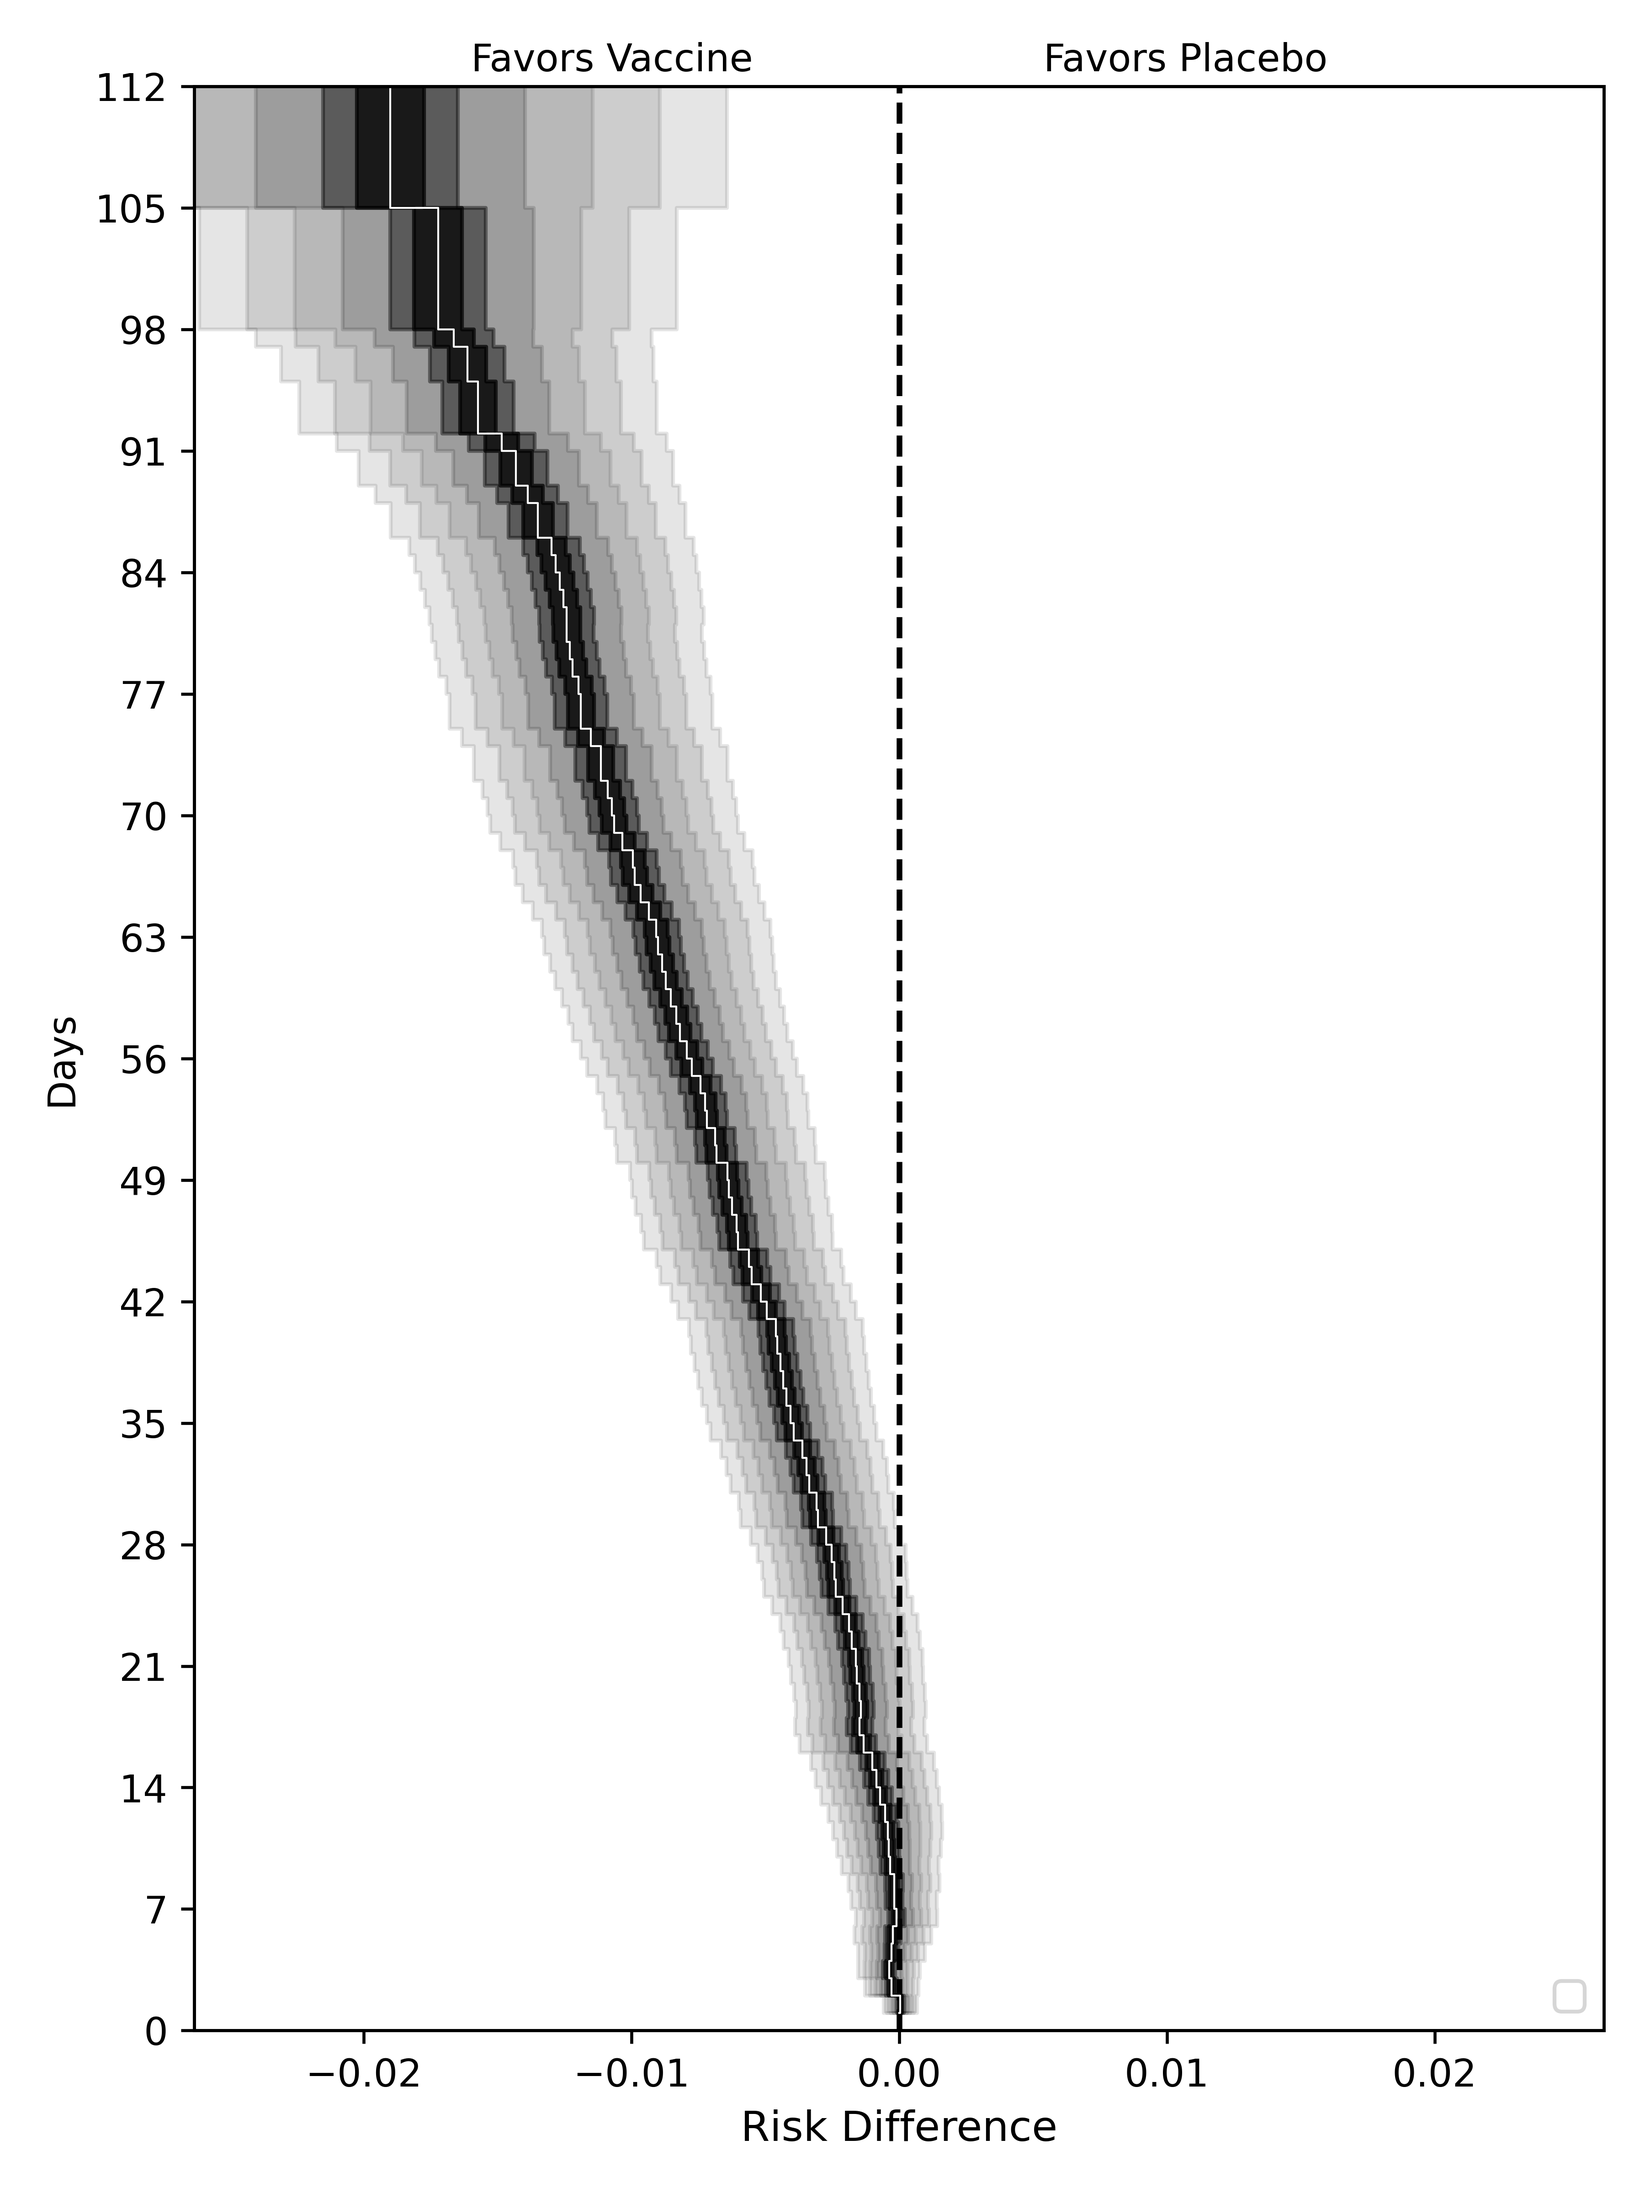
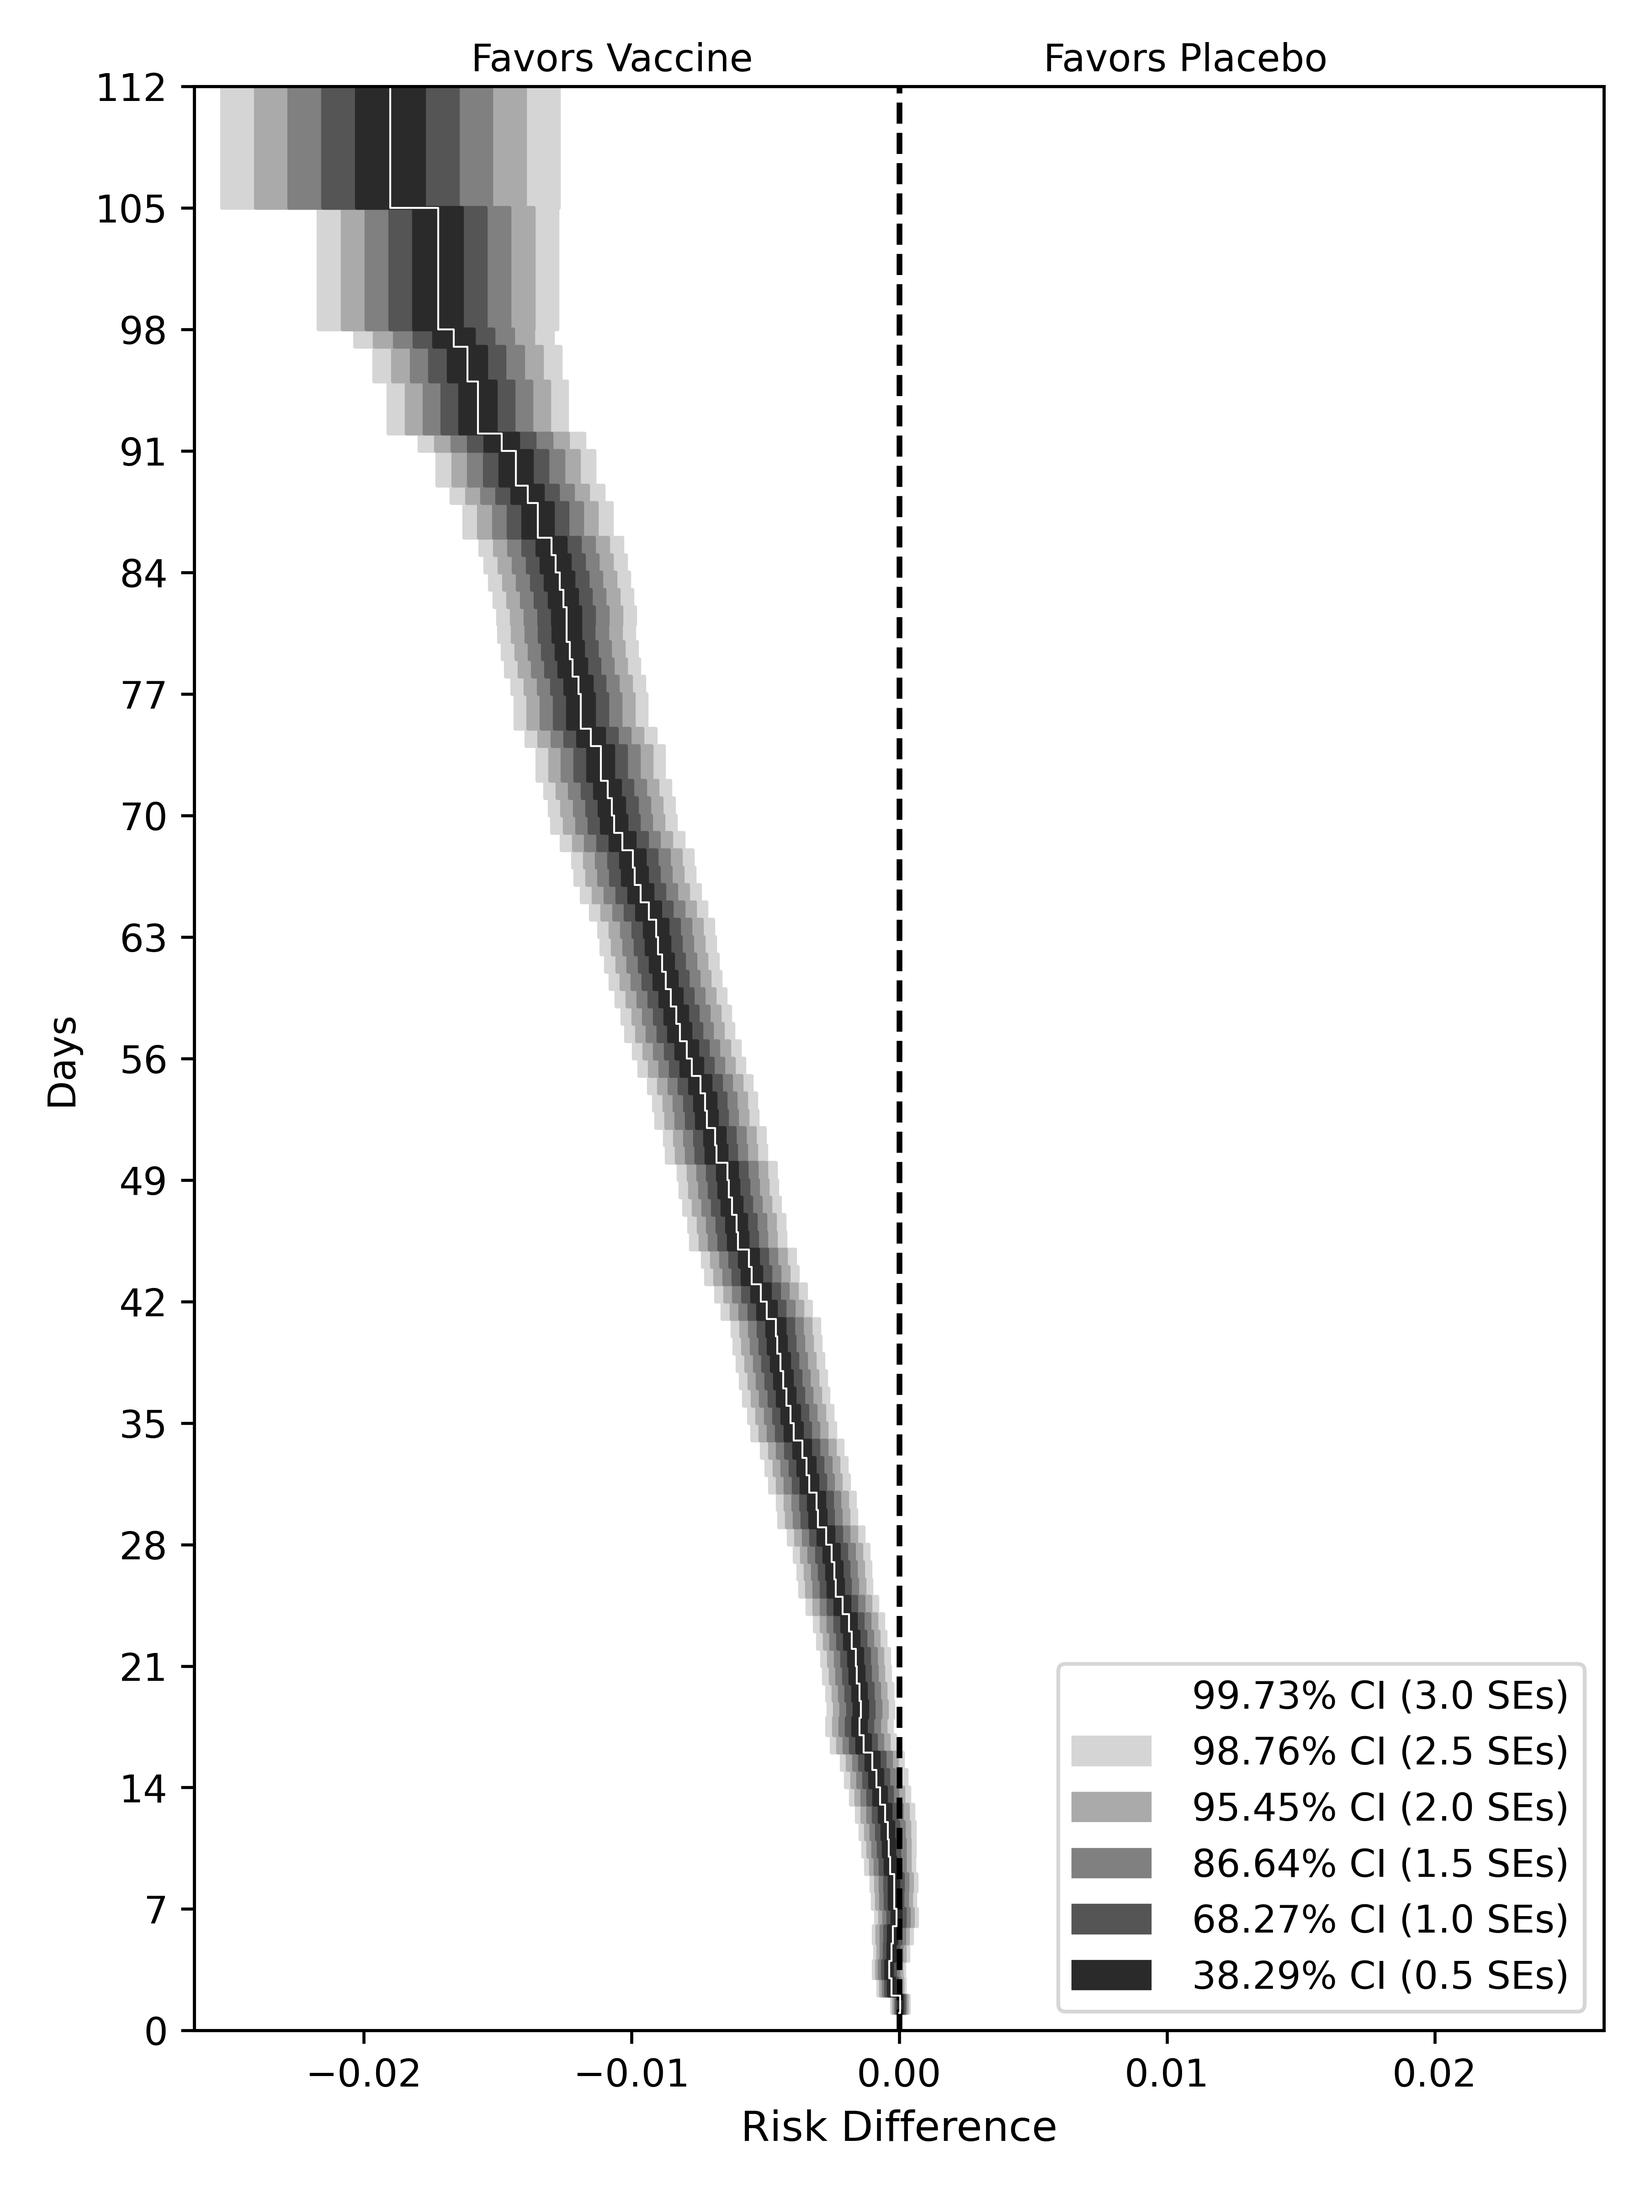
Added labels, changed to colormap

Changed region(s): [[0.0933, 0.0312, 0.5911, 0.9375], [0.6222, 0.75, 0.9644, 0.9062]]

diff --git a/sierra_plots/sierra_plot_alpha.py b/sierra_plots/sierra_plot_alpha.py
@@ -12,7 +12,14 @@ import matplotlib.pyplot as plt
 import matplotlib
 from scipy.stats import norm, lognorm
 
-
+sd_dict = {
+    0.997300203936740: 3.0,
+    0.987580669348448: 2.5,  # 2.5 SD
+    0.954499736103642: 2.0,  # 2 SD
+    0.866385597462284: 1.5,  # 1.5 SD
+    0.682689492137086: 1.0,  # 1 SD
+    0.382924922548026: 0.5,  # 0.5 SD
+}
 # Function that takes a query point and returns LCL and UCL for that percentile based on a risk-difference distribution (normal)
 def norm_rd(
     query: float, location: pd.Series, scale: pd.Series
@@ -120,21 +127,15 @@ def sierra_plot(
     # # # Functionally not needed, but helps Shaded step function for Risk Difference confidence intervals
 
     # for a in np.arange(0.999, 0.001, STEP):
-    for a in (
-        0.999999426696856,  # 5 SD
-        0.999936657516334,  # 4 SD
-        0.997300203936740,  # 3 SD
-        0.954499736103642,  # 2 SD
-        0.682689492137086,  # 1 SD
-        0.382924922548026,  # 0.5 SD
-    ):
+    for a in sd_dict.keys():
         (df[a], df[2 - a]) = interval_func(a, location=df[xvar], scale=df["sd"])
         ax.fill_betweenx(
             df[yvar],
             df[2 - a],
             df[a],
-            color="k",
-            alpha=1.1 - a,  # guarantees at least 0.1 alpha
+            color=cmap(sd_dict[a] / 3),
+            alpha=1,
+            label=f"{100 * a: 2.2f}% CI ({sd_dict[a]} SEs)",
             step="post",
         )
 
